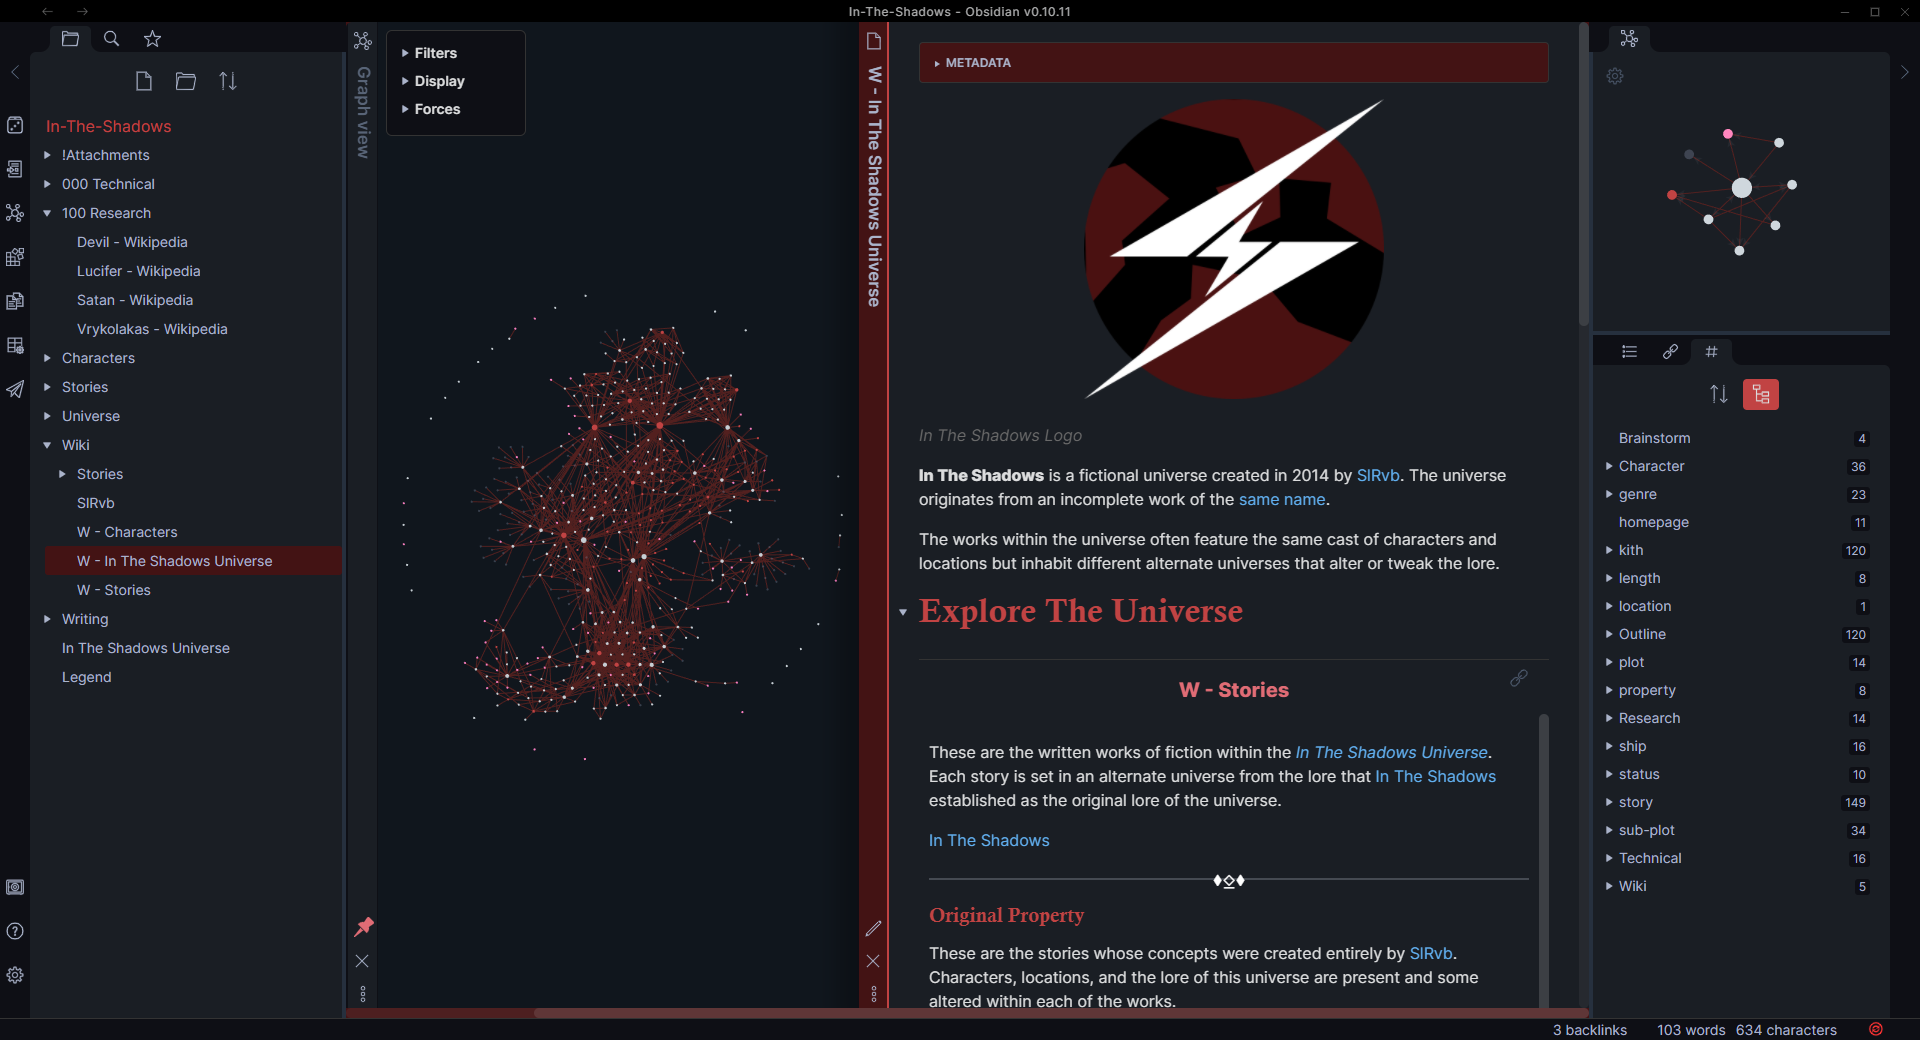
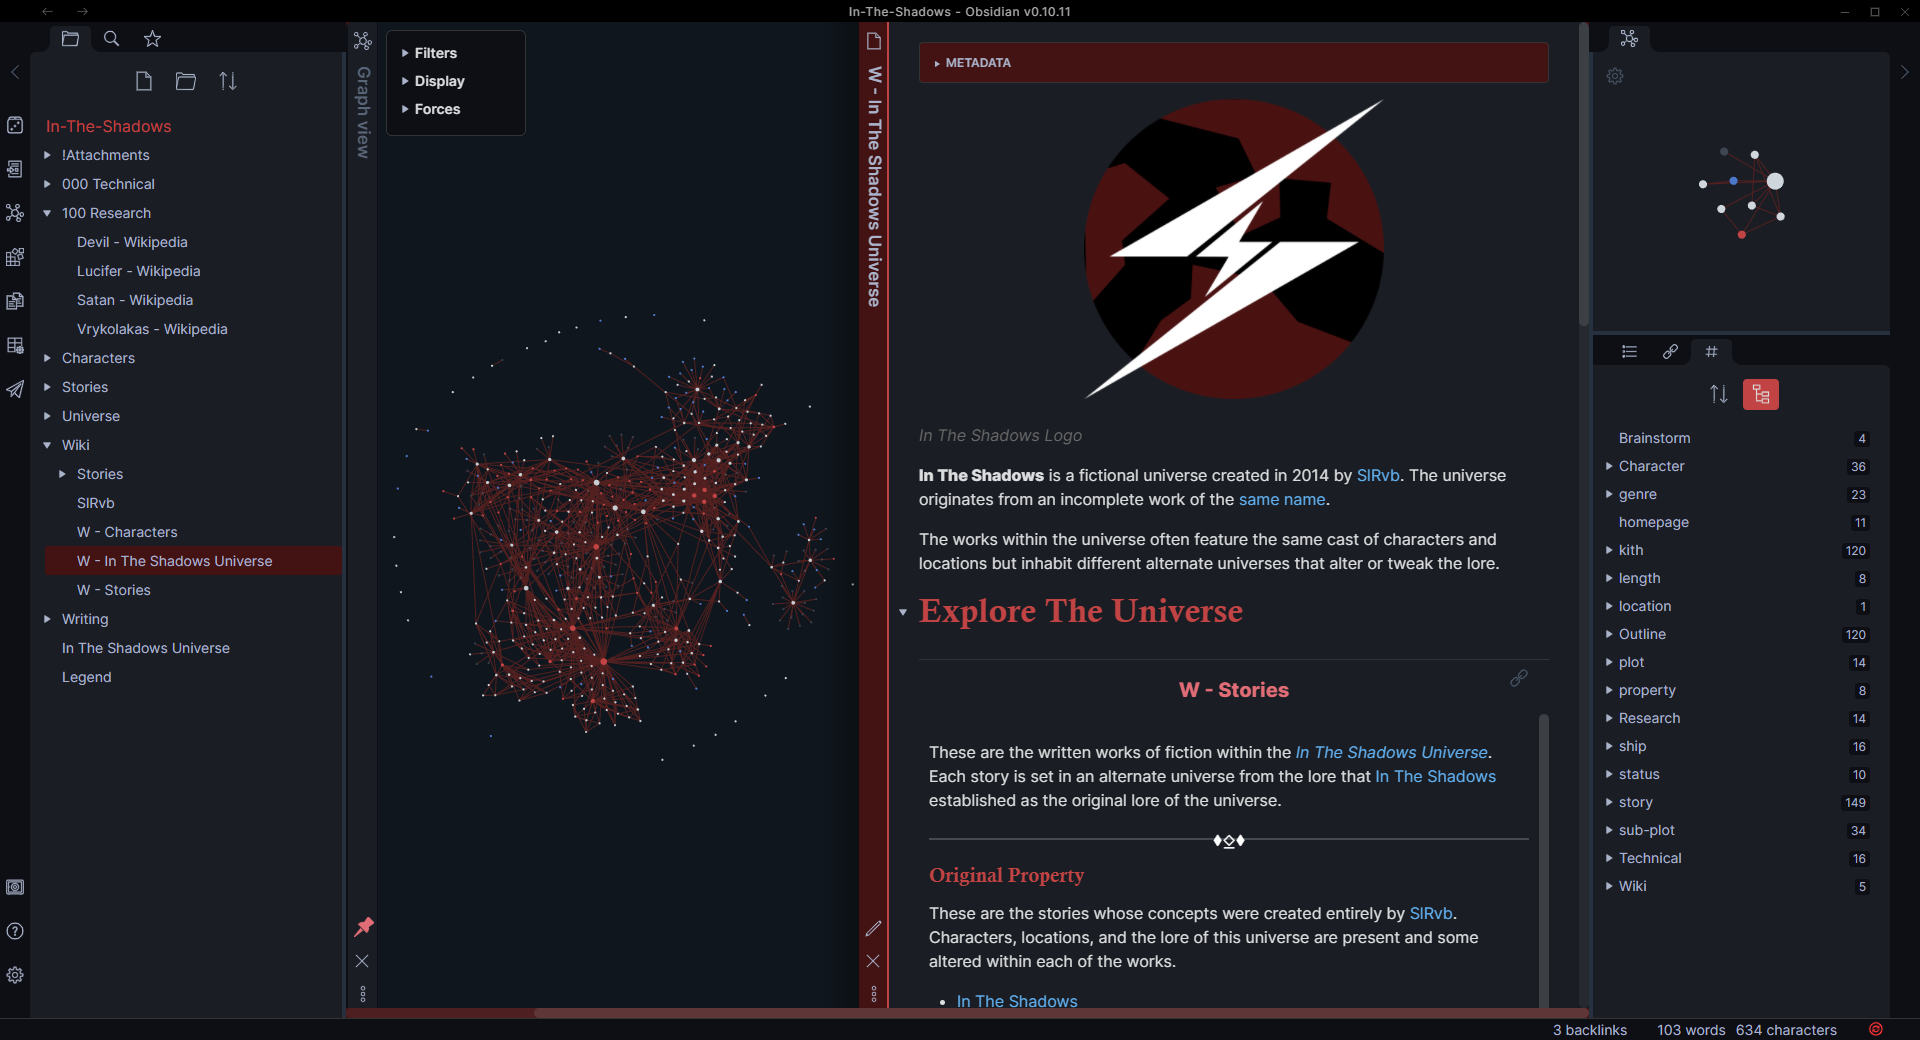
Pin/Checkbox Color + Popover Edit + Photo Update

Changed region(s): [[0.2188, 0.3077, 0.4375, 0.7077], [0.4688, 0.8, 0.7812, 0.9846], [0.875, 0.1231, 0.9375, 0.2462]]

diff --git a/ITS.css b/ITS.css
@@ -99,7 +99,7 @@
     --graph-node: #cfd7dd;
     --graph-fill: var(--red);
     --graph-404: #727e93;
-    --graph-img: #ff86be;
+    --graph-img: var(--blue) /*#ff86be*/;
     
     /*Characters*/
     --mylt: #2f1010;
@@ -208,7 +208,7 @@
     --graph-node: #000000;
     --graph-fill: #c14343;
     --graph-404: #727e93;
-    --graph-img: #5469de;
+    --graph-img: var(--blue) /*#5469de*/;
     
     /*Characters*/
     --mylt: #2f1010;
@@ -543,11 +543,12 @@ ul ul::before {
 }
 
 
-/*Horizontal Linebreak*/
+/*--Horizontal Linebreak--*/
 .markdown-preview-view hr {
     border-color: var(--gray) !important;
 }   
 
+/*Stylized hr Line*/
 .markdown-preview-view hr::after{
     content: "⧫" "⍚" "⧫";
     display: inline-block;
@@ -580,7 +581,7 @@ img {
 .markdown-preview-view .task-list-item-checkbox {
   -webkit-appearance: none;
   box-sizing: border-box;
-  border: 1px solid var(--text-muted);
+  border: 1px solid var(--text-faint);
   border-radius: 2px;
   position: relative;
   width: 1.3em;
@@ -600,7 +601,7 @@ img {
   background-color: var(--blue);
 }
 
-/*** /*Checkbox Checked* /
+/*** /*Checkbox Checked Checkmark* /
 .markdown-preview-view .task-list-item-checkbox:checked::before {
   content: ' ';
   position: absolute;
@@ -624,7 +625,7 @@ img {
 input[type="checkbox" i] {
     -webkit-appearance: none;
     box-sizing: border-box;
-    border: 1px solid var(--text-muted);
+    border: 1px solid var(--accent);
     border-radius: 2px;
     position: relative;
     width: 1.3em;
@@ -634,7 +635,6 @@ input[type="checkbox" i] {
     outline: none;
     margin-top: auto;
     margin-bottom: auto;
-    cursor: pointer;
     cursor: pointer;
 }
 
@@ -677,11 +677,12 @@ ul ul::before {
     left: -15px; top: 0; bottom: 0; 
 } 
 
+
+/*--Table--*/
 .markdown-preview-view table {
     border-color: var(--soft-text);
 }
 
-/*--Table--*/
 /*Border Color*/
 .markdown-preview-view th, .markdown-preview-view td {
     padding: 4px 10px;
@@ -703,7 +704,7 @@ ul ul::before {
   cursor: pointer;
 }
 
-}
+/*Hover Underline*/
 .tag:hover {
     color: white;
     text-decoration: underline;
@@ -732,20 +733,14 @@ ul ul::before {
 }
 
 /*Popover*/
+/*Fit Text Within Popover*/
 .popover {
-  font-size: 20px;   /* bigger text to make up for the downscaling */
-  text-align: justify; 
-  box-shadow: 0px 0px 20px 10px rgba(0,0,0,0.25); 
+  font-size: 16px;
+  text-align: justify;
 }
 
+/*Increase Popover size*/
 .popover.hover-popover .markdown-embed  {
     height: 500px;
 }
 
-.popover.hover-popover {
-    transform: scale(0.7); /* downscales the whole content - important for smaller tag pills */
-    max-height: 900px;   
-    min-height: 100px;
-    width: 700px;  
-    background: var(--background-primary);
-}
